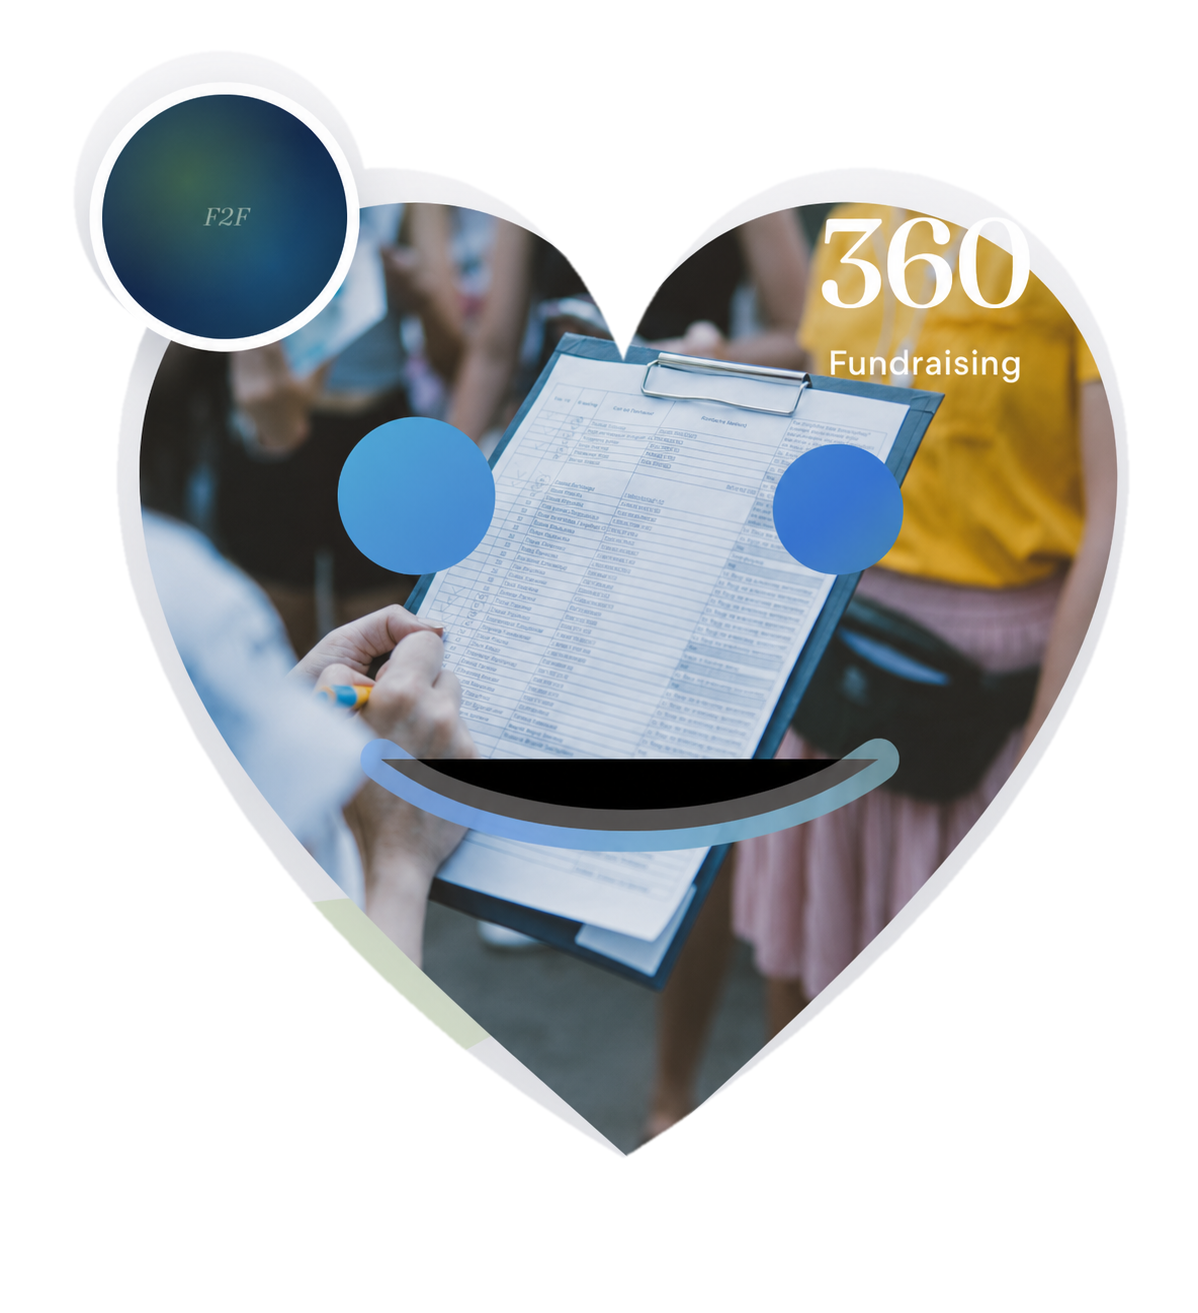
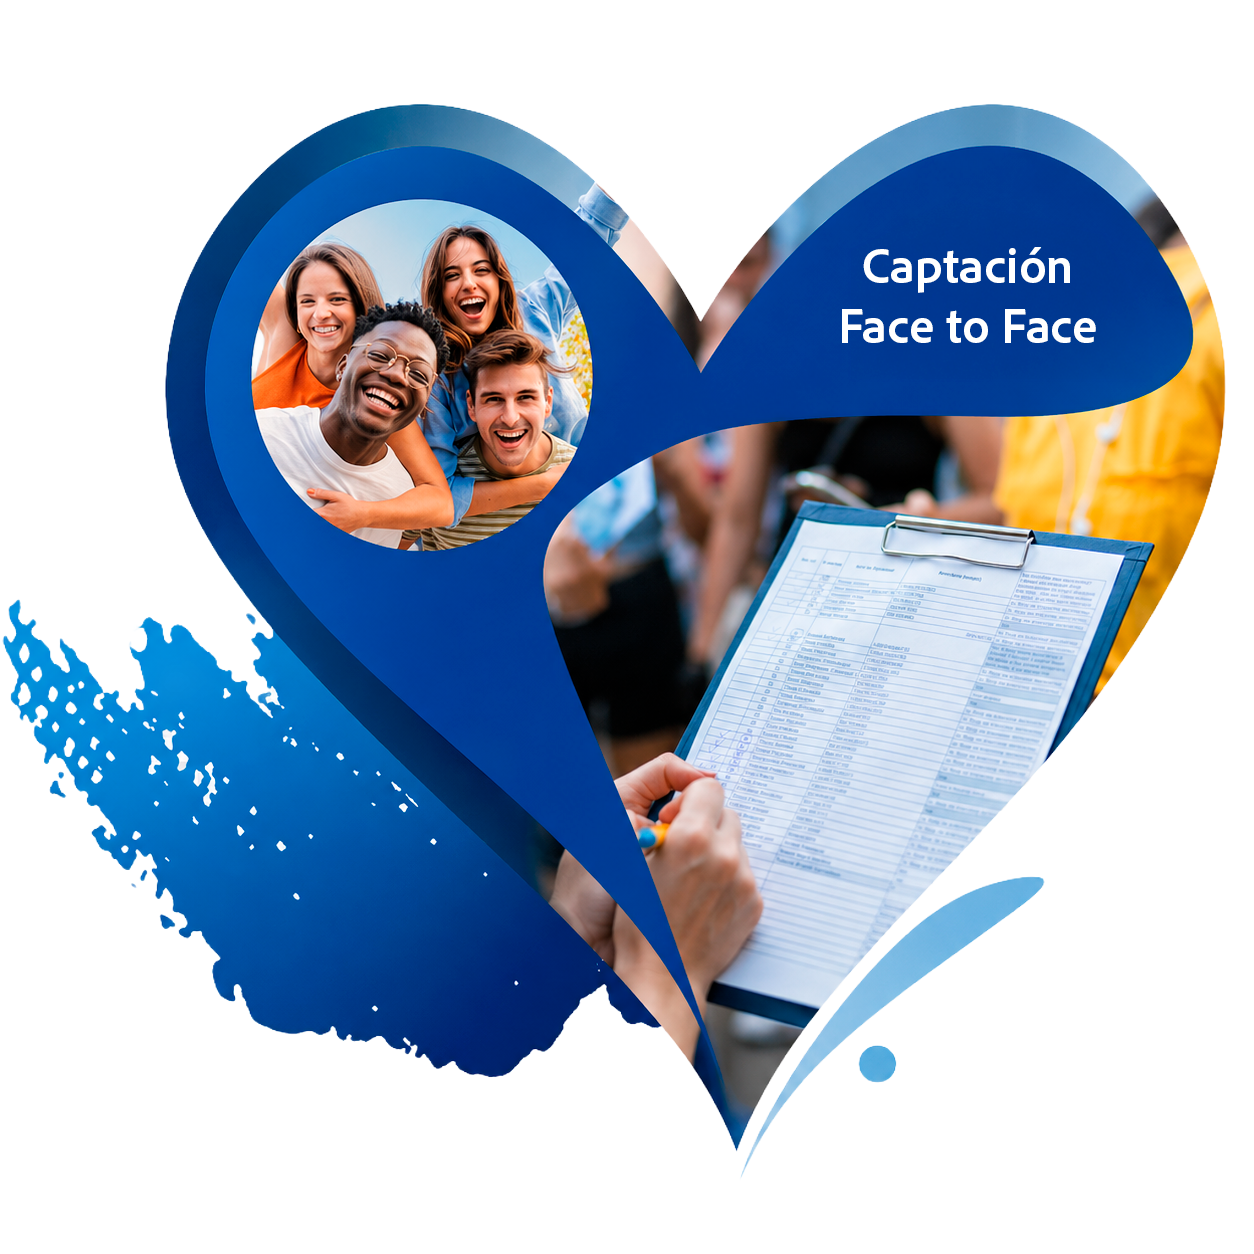
corazon

diff --git a/public_html/index.php b/public_html/index.php
@@ -202,7 +202,7 @@ include __DIR__ . '/includes/nav.php';
             <div class="about-highlight__grid">
                 <div class="about-highlight__media" data-animate>
                     <div class="about-highlight__heart">
-                        <img src="/assets/img/heart-survey-fundraising.png" width="1198" height="1313" alt="Encuesta de fundraising dentro de un corazón 360">
+                        <img src="/assets/img/heart-survey-fundraising.png" width="1254" height="1254" alt="Captación Face to Face en un corazón">
                     </div>
                 </div>
 
